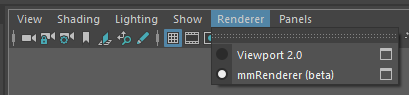
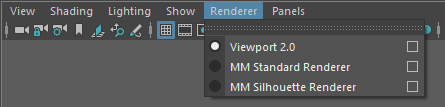
Docs - MM Renderer documentation improved for v0.5.0

Changed region(s): [[0.0, 0.0, 1.0, 1.0], [0.7628, 0.2737, 0.8509, 0.2947]]

diff --git a/docs/source/tools_renderer.rst b/docs/source/tools_renderer.rst
@@ -1,37 +1,165 @@
 .. _renderer-ref:
 
-MM Renderer
-===========
+Viewport Renderers
+==================
 
-`MM Renderer` is a Viewport 2.0 renderer designed to add helpful
-features for use with MatchMove workflows and reviews.
-
-This tool is currently only in beta, and is not enabled in stable `MM
-Solver` releases.
+`MM Solver` comes with specialised Viewport 2.0 renderers designed to
+add helpful features for use with MatchMove workflows and reviews.
 
 .. figure:: images/tools_renderer_menu.png
     :alt: Viewport Renderer menu
     :align: center
     :scale: 80%
 
-    Enable `MM Renderer` in the "Renderer" menu on each Viewport.
+    Viewport 2.0 "Renderer" menu.
 
-`MM Renderer` is different from regular Viewport 2.0 because it has
-the following features:
+Currently the following Viewport 2.0 renderers are available.
 
-- Display of MM Image Plane nodes with native useBackground shaders.
+.. list-table:: MM Solver Renderers
+   :widths: auto
+   :header-rows: 1
 
-Getting Started
-~~~~~~~~~~~~~~~
+   * - Name
+     - Description
 
-To use `MM Renderer`, simply load the ``mmSolver`` plug-in (for
-example open the Solver UI to ensure the plug-in is loaded), then
-use the Viewport's "Renderer" menu to switch to ``MM Renderer``.
+   * - :ref:`MM Standard Renderer <renderer-standard-ref>`
+     - Identical to default "Viewport 2.0", but correctly works with
+       `MM ImagePlane` nodes in from hold-outs, either using Hold Out
+       attributes or `Use Background` shaders.
 
-Known Issues
-~~~~~~~~~~~~
+   * - :ref:`MM Silhouette Renderer <renderer-silhouette-ref>`
+     - Identical to `MM Standard Renderer`, but adds a silhouette
+       outline edge to all rendered meshes in the viewport.
 
-`MM Renderer` is *beta* software and is only released in ``beta``
-versions of `MM Solver`.  There are numerous bugs and issues that are
-not yet resolved and the viewport renderer is available as a preview
-only.
+.. _renderer-standard-ref:
+
+MM Standard Renderer
+====================
+
+`MM Standard Renderer` is a Viewport 2.0 renderer designed to add
+helpful features for use with MatchMove workflows and reviews.
+
+`MM Standard Renderer` is different from regular Viewport 2.0 because
+it can display `MM Image Plane` nodes with native `useBackground`
+shaders (or Hold-Out geometry).
+
+Usage
+~~~~~
+
+1) To use `MM Standard Renderer`, load the ``mmSolver`` plug-in (for
+example open the Solver UI to ensure the plug-in is loaded), then use
+the Viewport's "Renderer" menu to switch to ``MM Standard Renderer``.
+
+.. figure:: images/tools_renderer_menu_standard.png
+    :alt: Viewport Renderer menu for `MM Standard Renderer`.
+    :align: center
+    :scale: 80%
+
+    Enable `MM Standard Renderer` in the Viewport "Renderer" menu.
+
+2) Use the Maya viewport and playblast as normal.
+
+.. _renderer-silhouette-ref:
+
+MM Silhouette Renderer
+======================
+
+The `MM Silhouette Renderer` is used to add silhouette outline edge to
+rendered geometry, allowing the artist to clearly see the edges of a
+mesh against an image sequence.
+
+This rendering effect is particularly effective when the geometry
+contains a Hold-Out effect using a `useBackground` shader or hold-out
+attributes (see :ref:`Set Mesh Hold-Out <set-mesh-hold-outs-ref>`
+tool).
+
+.. figure:: images/tools_renderer_silhouette_viewport.png
+    :alt: Example green silhouette effect on shaded objects.
+    :align: center
+    :scale: 80%
+
+    Example green silhouette effect on shaded objects.
+
+.. note:: `MM Silhouette Renderer` requires the use of the OpenGL
+          graphics API backend; DirectX is not supported.
+
+Usage
+~~~~~
+
+1) To use `MM Silhouette Renderer`, load the ``mmSolver`` plug-in (for
+example open the Solver UI to ensure the plug-in is loaded), then use
+the Viewport's "Renderer" menu to switch to ``MM Silhouette
+Renderer``.
+
+.. figure:: images/tools_renderer_menu_silhouette.png
+    :alt: Viewport Renderer menu for `MM Silhouette Renderer`.
+    :align: center
+    :scale: 80%
+
+    Enable `MM Silhouette Renderer` in the Viewport "Renderer" menu.
+
+2) Click viewport panel menu "Renderer > MM Silhouette Renderer
+   [Option Box]" to open the :ref:`renderer settings
+   <renderer-silhouette-settings-ref>` in the Attribute Editor.
+
+3) Adjust Silhouette settings as needed for desired effect.
+
+4) Use the Maya viewport and playblast as normal.
+
+.. _renderer-silhouette-settings-ref:
+
+Settings
+~~~~~~~~
+
+The settings for the `MM Silhouette Renderer` affect all open viewport
+panels using the same renderer and allow adjusting the silhouette
+effect, including the color and opacity.
+
+.. figure:: images/tools_renderer_globals_silhouette.png
+    :alt: The global settings for the `MM Silhouette Renderer` in the
+          Attribute Editor.
+    :align: center
+    :scale: 80%
+
+    The global settings for the `MM Silhouette Renderer` in the
+    Attribute Editor.
+
+
+.. list-table:: MM Silhouette Renderer Settings
+   :widths: auto
+   :header-rows: 1
+
+   * - Name
+     - Description
+
+   * - Depth Offset
+     - The separation between the invisible solid geometry and the
+       wireframe mesh. Adjust to lower values if small-mesh artifacts
+       are visible. Set to ``0.0`` to create a shaded wireframe
+       effect.
+
+   * - Width
+     - The width of the silhouette lines.
+
+   * - Override Color
+     - When enabled, all objects will use the silhouette color
+       below. When disabled, the wireframe color of the object is used
+       for each object's lines.
+
+   * - Color
+     - The override color for silhouette lines.
+
+   * - Alpha
+     - The global opacity of the silhouette lines.
+
+   * - Cull Face
+     - Backface culling for solid invisible mesh surfaces. For meshes
+       with inverted normals values other than ``Back``; Options are
+       ``Back``, ``Front`` or ``FrontAndBack``.
+
+   * - (debug) Enable
+     - Toggle the silhouette effect on/off.
+
+   * - (debug) Operation Number
+     - Used internally to draw only the first N number of rendering
+       operations inside the renderer.

diff --git a/docs/source/tools_displaytools.rst b/docs/source/tools_displaytools.rst
@@ -134,7 +134,7 @@ Set Mesh Hold-Outs
 This tool is used to force mesh nodes to be rendered as hold-out in
 the viewport, or not.
 
-This is similar to assigning a UseBackground shader, to geometry,
+This is similar to assigning a `useBackground` shader, to geometry,
 however this tool avoids the need to create a shader, and manage
 assignments.
 
